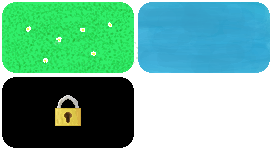
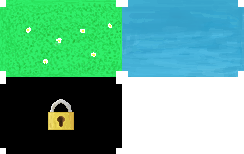
finished playchoice

diff --git a/PlayChoice.cpp b/PlayChoice.cpp
@@ -16,14 +16,18 @@ bool PlayChoice::eventLogic(std::optional<sf::Event> gameEvent) {
         } else if (gameEvent->getIf<sf::Event::KeyPressed>()->code == sf::Keyboard::Key::Right) {
             if (selectedRow == 0 && *selectedMap != NUMBEROFMAPS - 1) 
                 (*selectedMap)++;
-            else if (selectedRow == 1 && *selectedPlayer != NUMBEROFCHARS - 1) 
+            else if (selectedRow == 1 && *selectedPlayer != NUMBEROFCHARS - 1) {
                 (*selectedPlayer)++;
+                refreshCharacterStats();
+            }
         }
         else if (gameEvent->getIf<sf::Event::KeyPressed>()->code == sf::Keyboard::Key::Left) {
             if (selectedRow == 0 && *selectedMap != 0) 
                 (*selectedMap)--;
-            else if (selectedRow == 1 && *selectedPlayer != 0) 
+            else if (selectedRow == 1 && *selectedPlayer != 0) {
                 (*selectedPlayer)--;
+                refreshCharacterStats();
+            }
         }
         else if (gameEvent->getIf<sf::Event::KeyPressed>()->code == sf::Keyboard::Key::Enter) {
             if (selectedRow == 2 && unlockedMaps.at(*selectedMap) && unlockedChars.at(*selectedPlayer)){
@@ -42,55 +46,90 @@ bool PlayChoice::eventLogic(std::optional<sf::Event> gameEvent) {
 
 bool PlayChoice::init() {
     *selectedMap = *selectedPlayer = selectedRow = 0;
-    sf::Texture* playChoiceTexture = objectsHandler->loadTexture({ 237, 121 }, "PlaySelect");
-    if (!playChoiceTexture) 
-        return true;
     spriteHolderIndex = objectsHandler->addVectorToSpriteHolder();
-    objectsHandler->loadSpriteIntoHolder(*playChoiceTexture, { 136,75 }, { 0, 0 }, spriteHolderIndex);
-    objectsHandler->getSpritePointer(spriteHolderIndex, -1)->setPosition({ 148, 1});
-    objectsHandler->loadSpriteIntoHolder(*playChoiceTexture, { 91,94 }, { 136, 27 }, spriteHolderIndex);
-    objectsHandler->getSpritePointer(spriteHolderIndex, -1)->setPosition({ 170, 78.0f });
-    objectsHandler->loadSpriteIntoHolder(*playChoiceTexture, { 120,45 }, { 0, 76 }, spriteHolderIndex);
-    objectsHandler->getSpritePointer(spriteHolderIndex, -1)->setPosition({ 156, 174 });
-    objectsHandler->loadSpriteIntoHolder(*playChoiceTexture, { 120,45 }, { 0, 76 }, spriteHolderIndex);
-    objectsHandler->getSpritePointer(spriteHolderIndex, -1)->setPosition({ 156, 222 });
-    objectsHandler->loadSpriteIntoHolder(*playChoiceTexture, { 59,27 }, { 136, 0 }, spriteHolderIndex);
-    objectsHandler->getSpritePointer(spriteHolderIndex, -1)->setPosition({ 324, 25.0f });
-    objectsHandler->loadSpriteIntoHolder(*playChoiceTexture, { 59,27 }, { 136, 0 }, spriteHolderIndex);
+    sf::Texture* playChoiceTexture = objectsHandler->loadTexture({ 432, 270 }, "UpgradesBG");
+    if (!playChoiceTexture)
+        return true;
+    objectsHandler->loadSpriteIntoHolder(*playChoiceTexture, { 432,270 }, { 0, 0 }, spriteHolderIndex);
+    playChoiceTexture = objectsHandler->loadTexture({ 240, 108 }, "PlayChoiceTextures");
+    if (!playChoiceTexture)
+        return true;
+    objectsHandler->loadSpriteIntoHolder(*playChoiceTexture, { 130,86 }, { 110, 22 }, spriteHolderIndex);
+    objectsHandler->getSpritePointer(spriteHolderIndex, -1)->setPosition({ 151, 1 });
+    objectsHandler->loadSpriteIntoHolder(*playChoiceTexture, { 130,86 }, { 110, 22 }, spriteHolderIndex);
+    objectsHandler->getSpritePointer(spriteHolderIndex, -1)->setPosition({ 151, 90 });
+    sf::Texture* buttonTextures = objectsHandler->loadTexture({ 434, 102 }, "ButtonSprites");
+    if (!buttonTextures)
+        return true;
+    objectsHandler->loadSpriteIntoHolder(*buttonTextures, { 90,38 }, { 270, 38 }, spriteHolderIndex);
+    objectsHandler->getSpritePointer(spriteHolderIndex, -1)->setPosition({ 171, 180 });
+    objectsHandler->loadSpriteIntoHolder(*buttonTextures, { 90,38 }, { 270, 38 }, spriteHolderIndex);
+    objectsHandler->getSpritePointer(spriteHolderIndex, -1)->setPosition({ 171, 226 });
+    objectsHandler->loadTextIntoHolder("Start", 25, { (SCENEWIDTH - objectsHandler->calculateTextWidth("Start", 25)) / 2, 183 });
+    objectsHandler->loadTextIntoHolder("Return", 25, { (SCENEWIDTH - objectsHandler->calculateTextWidth("Return", 25)) / 2, 229 });
+    objectsHandler->loadSpriteIntoHolder(*playChoiceTexture, { 26,22 }, { 110, 0 }, spriteHolderIndex);
+    objectsHandler->getSpritePointer(spriteHolderIndex, -1)->setPosition({ 101, 32 });
     objectsHandler->getSpritePointer(spriteHolderIndex, -1)->setScale({ -1, 1 });
-    objectsHandler->getSpritePointer(spriteHolderIndex, -1)->setPosition({ 108, 25.0f });
-    objectsHandler->loadSpriteIntoHolder(*playChoiceTexture, { 59,27 }, { 136, 0 }, spriteHolderIndex);
-    objectsHandler->getSpritePointer(spriteHolderIndex, -1)->setPosition({ 324, 111 });
-    objectsHandler->loadSpriteIntoHolder(*playChoiceTexture, { 59,27 }, { 136, 0 }, spriteHolderIndex);
+    objectsHandler->loadSpriteIntoHolder(*playChoiceTexture, { 26,22 }, { 110, 0 }, spriteHolderIndex);
+    objectsHandler->getSpritePointer(spriteHolderIndex, -1)->setPosition({ 331, 32 });
+    objectsHandler->loadSpriteIntoHolder(*playChoiceTexture, { 26,22 }, { 110, 0 }, spriteHolderIndex);
+    objectsHandler->getSpritePointer(spriteHolderIndex, -1)->setPosition({ 101, 121 });
     objectsHandler->getSpritePointer(spriteHolderIndex, -1)->setScale({ -1, 1 });
-    objectsHandler->getSpritePointer(spriteHolderIndex, -1)->setPosition({ 108, 111 });
-    objectsHandler->loadTextIntoHolder("Start", 25, { (SCENEWIDTH - objectsHandler->calculateTextWidth("Start", 25)) / 2, 178 });
-    objectsHandler->loadTextIntoHolder("Return", 25, { (SCENEWIDTH - objectsHandler->calculateTextWidth("Return", 25)) / 2, 226 });
+    objectsHandler->loadSpriteIntoHolder(*playChoiceTexture, { 26,22 }, { 110, 0 }, spriteHolderIndex);
+    objectsHandler->getSpritePointer(spriteHolderIndex, -1)->setPosition({ 331, 121 });
+    objectsHandler->loadSpriteIntoHolder(*playChoiceTexture, { 110,104 }, { 0, 0 }, spriteHolderIndex);
+    objectsHandler->getSpritePointer(spriteHolderIndex, -1)->setPosition({ 290, 150 });
+    objectsHandler->loadTextIntoHolder("Hp:", 12, { 303, 161 });
+    objectsHandler->loadTextIntoHolder("Ms:", 12, { 303, 174 });
+    objectsHandler->loadTextIntoHolder("Damage:", 12, { 303, 187 });
+    objectsHandler->loadTextIntoHolder("AoE:", 12, { 303, 200 });
+    objectsHandler->loadTextIntoHolder("Exp:", 12, { 303, 213 });
+    objectsHandler->loadTextIntoHolder("Armor:", 12, { 303, 226 });
+    objectsHandler->loadTextIntoHolder("100", 12, { 373, 161 });
+    objectsHandler->loadTextIntoHolder("2", 12, { 373, 174 });
+    objectsHandler->loadTextIntoHolder("100", 12, { 373, 187 });
+    objectsHandler->loadTextIntoHolder("100", 12, { 373, 200 });
+    objectsHandler->loadTextIntoHolder("100", 12, { 373, 213 });
+    objectsHandler->loadTextIntoHolder("0", 12, { 373, 226 });
     objectsHandler->addVectorToSpriteHolder();
-    playChoiceTexture = objectsHandler->loadTexture({ 272, 150 }, "MapThumbnails");
+    playChoiceTexture = objectsHandler->loadTexture({ 244, 154 }, "MapThumbnails");
     if (!playChoiceTexture) 
         return true;
-    objectsHandler->loadSpriteIntoHolder(*playChoiceTexture, { 136,75 }, { 0, 75 }, spriteHolderIndex+1);
-    objectsHandler->getSpritePointer(spriteHolderIndex+1, -1)->setPosition({ 148, 1 });
-    objectsHandler->loadSpriteIntoHolder(*playChoiceTexture, { 136,75 }, { 0, 0 }, spriteHolderIndex+1);
-    objectsHandler->getSpritePointer(spriteHolderIndex + 1, -1)->setPosition({ 148, 1 });
-    objectsHandler->loadSpriteIntoHolder(*playChoiceTexture, { 136,75 }, { 136, 0 }, spriteHolderIndex+1);
-    objectsHandler->getSpritePointer(spriteHolderIndex + 1, -1)->setPosition({ 148, 1 });
+    objectsHandler->loadSpriteIntoHolder(*playChoiceTexture, { 122,77 }, { 0, 77 }, spriteHolderIndex+1);
+    objectsHandler->getSpritePointer(spriteHolderIndex + 1, -1)->setPosition({ 155, 5 });
+    objectsHandler->loadSpriteIntoHolder(*playChoiceTexture, { 122,77 }, { 0, 0 }, spriteHolderIndex+1);
+    objectsHandler->getSpritePointer(spriteHolderIndex + 1, -1)->setPosition({ 155, 5 });
+    objectsHandler->loadSpriteIntoHolder(*playChoiceTexture, { 122,77 }, { 122, 0 }, spriteHolderIndex+1);
+    objectsHandler->getSpritePointer(spriteHolderIndex + 1, -1)->setPosition({ 155, 5 });
     objectsHandler->addVectorToSpriteHolder();
-    playChoiceTexture = objectsHandler->loadTexture({ 182, 188 }, "CharacterThumbnails");
+    playChoiceTexture = objectsHandler->loadTexture({ 244, 154 }, "CharacterThumbnails");
     if (!playChoiceTexture) 
         return true;
-    objectsHandler->loadSpriteIntoHolder(*playChoiceTexture, { 91,94 }, { 0, 94 }, spriteHolderIndex + 2);
-    objectsHandler->getSpritePointer(spriteHolderIndex + 2, -1)->setPosition({ 170, 78.0f });
-    objectsHandler->loadSpriteIntoHolder(*playChoiceTexture, { 91,94 }, { 0, 0 }, spriteHolderIndex + 2);
-    objectsHandler->getSpritePointer(spriteHolderIndex + 2, -1)->setPosition({ 170, 78.0f });
-    objectsHandler->loadSpriteIntoHolder(*playChoiceTexture, { 91,94 }, { 91, 0 }, spriteHolderIndex + 2);
-    objectsHandler->getSpritePointer(spriteHolderIndex + 2, -1)->setPosition({ 170, 78.0f });
+    objectsHandler->loadSpriteIntoHolder(*playChoiceTexture, { 122,77 }, { 0, 77 }, spriteHolderIndex + 2);
+    objectsHandler->getSpritePointer(spriteHolderIndex + 2, -1)->setPosition({ 155, 94 });
+    objectsHandler->loadSpriteIntoHolder(*playChoiceTexture, { 122,77 }, { 0, 0 }, spriteHolderIndex + 2);
+    objectsHandler->getSpritePointer(spriteHolderIndex + 2, -1)->setPosition({ 155, 94 });
+    objectsHandler->loadSpriteIntoHolder(*playChoiceTexture, { 122,77 }, { 122, 0 }, spriteHolderIndex + 2);
+    objectsHandler->getSpritePointer(spriteHolderIndex + 2, -1)->setPosition({ 155, 94 });
     Unlocks unlocks;
     unlockedChars = unlocks.loadUnlocked("CharactersUnlocked");
     unlockedMaps = unlocks.loadUnlocked("MapsUnlocked");
     refreshSelection();
+    refreshCharacterStats();
     return false;
+}
+
+void PlayChoice::refreshCharacterStats() {
+    CharacterDetails stats = getCharacterStats(*selectedPlayer);
+    objectsHandler->getTextPointer(8)->setString(std::to_string((int) stats.baseHp));
+    char buffer[4];
+    std::snprintf(buffer, 4, "%.1f", stats.baseMs);
+    std::string str(buffer);
+    objectsHandler->getTextPointer(9)->setString(str);
+    objectsHandler->getTextPointer(10)->setString(std::to_string((int)stats.baseDamage*100).append("%"));
+    objectsHandler->getTextPointer(11)->setString(std::to_string((int)stats.baseAoe * 100).append("%"));
+    objectsHandler->getTextPointer(12)->setString(std::to_string((int)stats.baseExp * 100).append("%"));
+    objectsHandler->getTextPointer(13)->setString(std::to_string((int)stats.baseArmor));
 }
 
 void PlayChoice::cleanUp() {
@@ -106,12 +145,14 @@ void PlayChoice::setPointers(int* readMap, int* readPlayer) {
 void PlayChoice::refreshSelection() {
     for (sf::Text& text : *objectsHandler->getTextHolder())
         text.setFillColor(sf::Color::White);
-    if (selectedRow == 2 || selectedRow == 3)
-        objectsHandler->getTextPointer(selectedRow - 2)->setFillColor(GREEN);
     for (int i = 0; i < objectsHandler->getSpriteHolderSize(spriteHolderIndex); i++) 
         objectsHandler->getSpritePointer(spriteHolderIndex, i)->setColor(sf::Color::White);
     for (int i = 0; i < objectsHandler->getSpriteHolderSize(spriteHolderIndex+1); i++) 
         objectsHandler->getSpritePointer(spriteHolderIndex+1, i)->setColor({255, 255, 255, 0});
+    if (selectedRow == 2 || selectedRow == 3)
+        objectsHandler->getTextPointer(selectedRow - 2)->setFillColor(GREEN);
+    else
+        objectsHandler->getSpritePointer(spriteHolderIndex, selectedRow + 1)->setColor(GREEN);
     if (unlockedMaps.at(*selectedMap)) 
         objectsHandler->getSpritePointer(spriteHolderIndex + 1, *selectedMap + 1)->setColor(sf::Color::White);
     else 
@@ -125,10 +166,9 @@ void PlayChoice::refreshSelection() {
     if (*selectedMap == 0) 
         objectsHandler->getSpritePointer(spriteHolderIndex, 5)->setColor(RED);
     else if (*selectedMap == NUMBEROFMAPS - 1) 
-        objectsHandler->getSpritePointer(spriteHolderIndex, 4)->setColor(RED);
+        objectsHandler->getSpritePointer(spriteHolderIndex, 6)->setColor(RED);
     if(*selectedPlayer == 0) 
         objectsHandler->getSpritePointer(spriteHolderIndex, 7)->setColor(RED);
     else if (*selectedPlayer == NUMBEROFCHARS - 1) 
-        objectsHandler->getSpritePointer(spriteHolderIndex, 6)->setColor(RED);
-    objectsHandler->getSpritePointer(spriteHolderIndex, selectedRow)->setColor(GREEN);
+        objectsHandler->getSpritePointer(spriteHolderIndex, 8)->setColor(RED);
 }

diff --git a/Projectiles.h b/Projectiles.h
@@ -1,7 +1,6 @@
 #pragma once
 #include <SFML/Graphics.hpp>
 
-//Damage, ms, range, sizes
 static std::vector<std::vector<float>> baseProjectileStats = {
 	{1000, 3, 600, 8, 8}
 };
@@ -9,8 +8,10 @@ static std::vector<std::vector<float>> baseProjectileStats = {
 class Projectiles {
 	sf::Sprite* sprite = nullptr;
 	float damage;
-	sf::Vector2f pos, ms, size;
+	sf::Vector2f ms;
 	float range;
+	sf::Vector2f size;
+	sf::Vector2f pos;
 public:
 	Projectiles(sf::Sprite* readSprite, float damageMod, sf::Vector2f readPos, sf::Vector2f readEndPos, int projectileId);
 	sf::Vector2f getSize();

diff --git a/PlayChoice.h b/PlayChoice.h
@@ -1,6 +1,6 @@
 #pragma once
 #include "Scene.h"
-#include "Unlocks.h"
+#include "CharacterData.h"
 
 class PlayChoice : public Scene {
 	int* selectedMap, *selectedPlayer;
@@ -8,6 +8,7 @@ class PlayChoice : public Scene {
 	std::vector<bool> unlockedChars;
 	std::vector<bool> unlockedMaps;
 	void refreshSelection();
+	void refreshCharacterStats();
 public:
 	using Scene::Scene;
 	bool eventLogic(std::optional<sf::Event> gameEvent);

diff --git a/CharacterData.cpp b/CharacterData.cpp
@@ -1,5 +1,9 @@
 #include "CharacterData.h"
 
+CharacterDetails getCharacterStats(int index) {
+	return charArray[index];
+}
+
 void CharacterData::setSizes(sf::Vector2f readPos, sf::Vector2i readSize) {
 	pos = readPos;
 	size = readSize;

diff --git a/CharacterData.h b/CharacterData.h
@@ -15,6 +15,8 @@ static CharacterDetails charArray[NUMBEROFCHARS] = {
 	{120, 1.8, 1, 1, 1, 1, {16, 0}}
 };
 
+CharacterDetails getCharacterStats(int index);
+
 class CharacterData {
 private:
 	sf::Vector2f pos;
